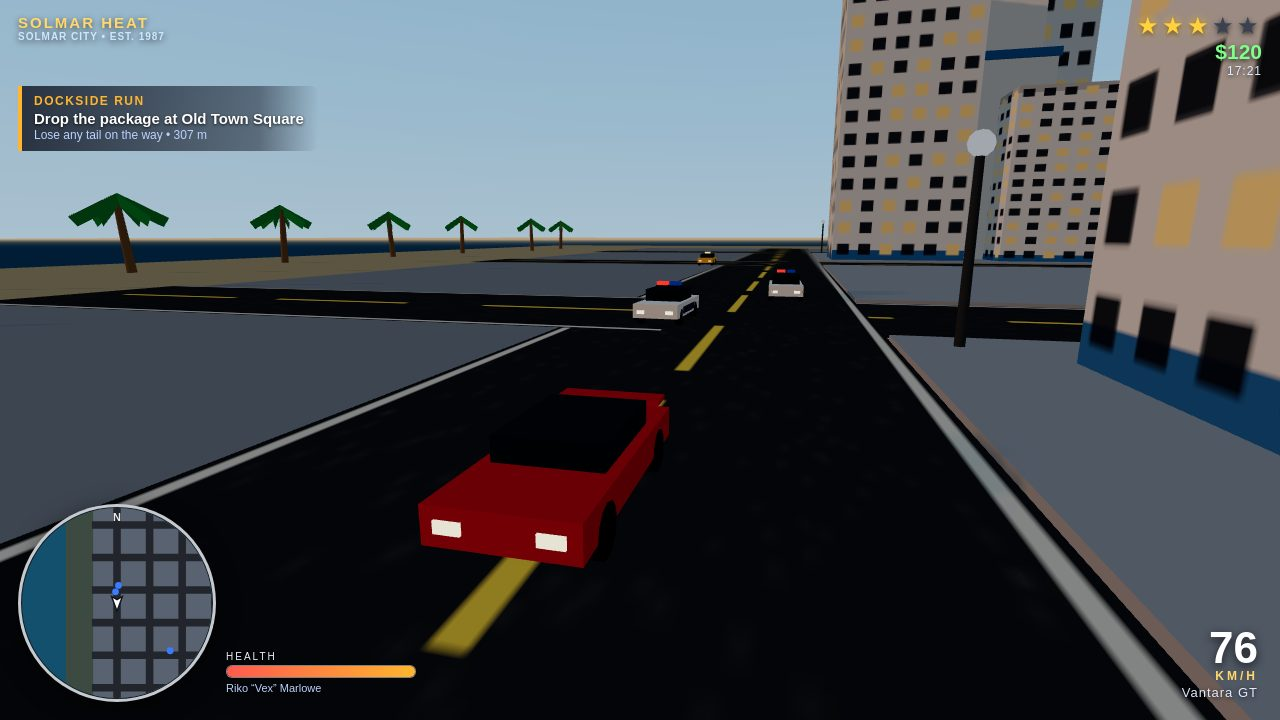
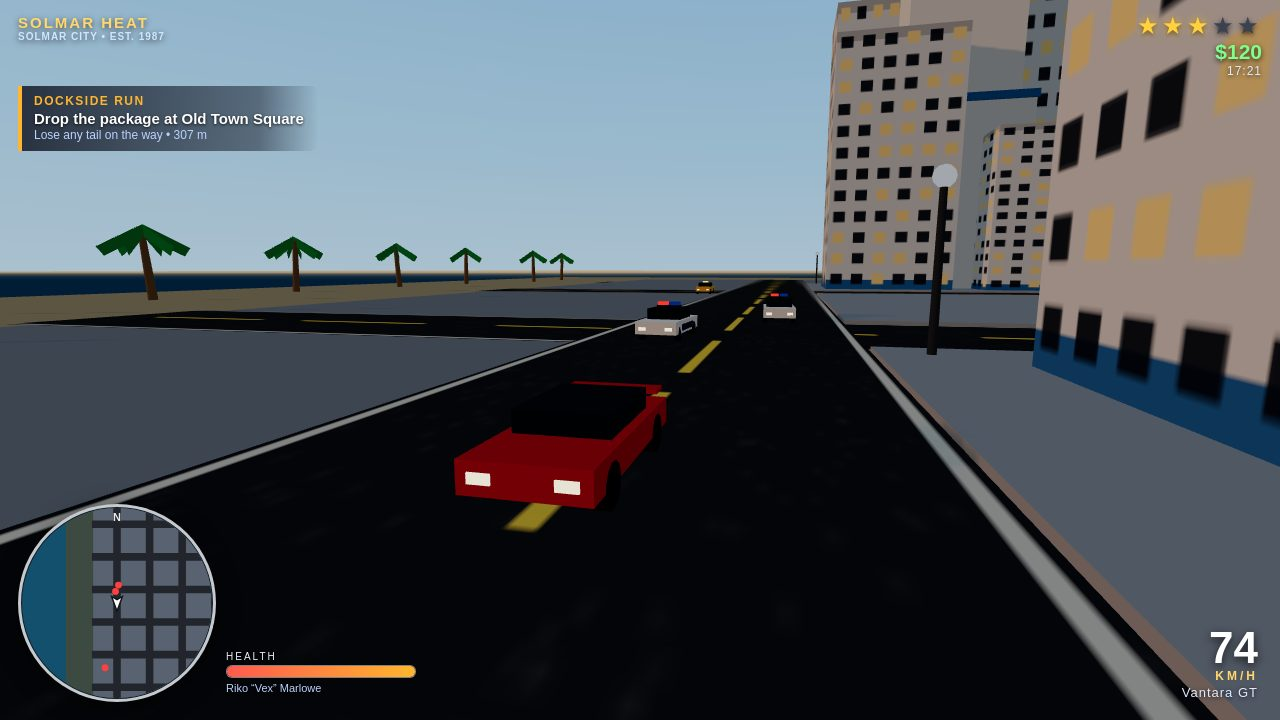
Polish: yacht mesh, shot dressing, README

diff --git a/game/src/city.js b/game/src/city.js
@@ -367,23 +367,125 @@ function buildLandmarks(scene, colliders) {
 
 function buildYacht(scene) {
   const { x, z } = PLACES.yachtDeck;
-  const hull = box(46, 5, 13, lambert(0xf2f4f6));
+  const glowMat = new THREE.MeshBasicMaterial({ color: 0xffd9a0 });
+  const hullMat = lambert(0xf2f4f6);
+  const hull = box(46, 5, 13, hullMat);
   hull.position.set(x, 0.6, z);
   hull.castShadow = false;
   scene.add(hull);
-  const bow = new THREE.Mesh(new THREE.CylinderGeometry(6.5, 6.5, 5, 3, 1), lambert(0xf2f4f6));
+  const bow = new THREE.Mesh(new THREE.CylinderGeometry(6.5, 6.5, 5, 3, 1), hullMat);
   bow.position.set(x + 26, 0.6, z);
   bow.rotation.y = Math.PI / 2;
   scene.add(bow);
+  // Dark waterline band — the hull sits IN the water, not on it.
+  const waterline = box(46.2, 1.4, 13.2, lambert(0x27313c));
+  waterline.position.set(x, -1.3, z);
+  waterline.castShadow = false;
+  scene.add(waterline);
+  // Gold trim stripe along the hull.
   const stripe = box(46.4, 1.1, 13.4, lambert(0xc9a227));
   stripe.position.set(x, 2.2, z);
   scene.add(stripe);
+  // Warm portholes in a row along both hull sides.
+  for (let i = 0; i < 9; i++) {
+    for (const s of [1, -1]) {
+      const port = box(1.1, 0.8, 0.14, glowMat);
+      port.position.set(x - 18 + i * 4.5, 0.9, z + s * 6.55);
+      port.castShadow = false;
+      scene.add(port);
+    }
+  }
+  // Gold bulwark rail around the open main deck.
+  const railMat = lambert(0xd8b84a);
+  for (const s of [1, -1]) {
+    const rail = box(45, 0.16, 0.16, railMat);
+    rail.position.set(x, 3.9, z + s * 6.3);
+    rail.castShadow = false;
+    scene.add(rail);
+  }
+  const sternRail = box(0.16, 0.16, 12.4, railMat);
+  sternRail.position.set(x - 22.9, 3.9, z);
+  sternRail.castShadow = false;
+  scene.add(sternRail);
+  // The yacht's name across the stern, facing the pier and the city.
+  const sternSign = new THREE.Mesh(
+    new THREE.PlaneGeometry(15, 3.4),
+    new THREE.MeshBasicMaterial({ map: signTexture('SOLMAR STAR', '#ffd76a', '#14273d', 'CASINO • YACHT CLUB') }),
+  );
+  sternSign.position.set(x - 23.15, 1.6, z);
+  sternSign.rotation.y = -Math.PI / 2;
+  scene.add(sternSign);
+
+  // Tiered superstructure: white decks with dark glass bands and warm,
+  // lit windows on the sides — and a casino entrance on the bow face.
   const deck1 = box(34, 3.4, 10.5, lambert(0xffffff));
   deck1.position.set(x - 2, 4.8, z);
   scene.add(deck1);
   const deck2 = box(22, 3, 8.4, lambert(0xe8ecf0));
   deck2.position.set(x - 4, 8, z);
   scene.add(deck2);
+  const glassMat = lambert(0x20344a);
+  for (const s of [1, -1]) {
+    const band1 = box(30, 1.1, 0.14, glassMat);
+    band1.position.set(x - 2, 5.3, z + s * 5.32);
+    band1.castShadow = false;
+    scene.add(band1);
+    const band2 = box(19, 1, 0.14, glassMat);
+    band2.position.set(x - 4, 8.4, z + s * 4.27);
+    band2.castShadow = false;
+    scene.add(band2);
+  }
+  const winRow = (count, start, step, y, fixed, alongZ) => {
+    for (let i = 0; i < count; i++) {
+      const win = box(1.3, 0.7, 0.1, glowMat);
+      if (alongZ) win.position.set(fixed, y, start + i * step);
+      else win.position.set(start + i * step, y, fixed);
+      win.castShadow = false;
+      scene.add(win);
+    }
+  };
+  winRow(9, x - 15, 3.4, 5.3, z + 5.42, false);
+  winRow(9, x - 15, 3.4, 5.3, z - 5.42, false);
+  winRow(6, x - 13, 3.4, 8.4, z + 4.34, false);
+  winRow(6, x - 13, 3.4, 8.4, z - 4.34, false);
+  // Casino entrance on deck 1's bow-facing side: doors, sconces, sign.
+  const door = box(0.3, 2.4, 2.4, lambert(0x14273d));
+  door.position.set(x + 15.1, 4.25, z);
+  scene.add(door);
+  for (const s of [1, -1]) {
+    const sconce = new THREE.Mesh(new THREE.SphereGeometry(0.22, 8, 6), glowMat);
+    sconce.position.set(x + 15.2, 5.1, z + s * 2.1);
+    scene.add(sconce);
+  }
+  const casinoSign = new THREE.Mesh(
+    new THREE.PlaneGeometry(8, 1.2),
+    new THREE.MeshBasicMaterial({ map: signTexture('CASINO', '#ffd76a', '#14273d') }),
+  );
+  casinoSign.position.set(x + 15.22, 5.95, z);
+  casinoSign.rotation.y = Math.PI / 2;
+  scene.add(casinoSign);
+  // Lit windows flanking the casino entrance on the same bow face.
+  for (const wz of [z - 4.4, z - 2.9, z + 2.9, z + 4.4]) {
+    const win = box(1.1, 0.7, 0.1, glowMat);
+    win.position.set(x + 15.12, 5.3, wz);
+    win.rotation.y = Math.PI / 2;
+    win.castShadow = false;
+    scene.add(win);
+  }
+  // Radar arch over the top deck.
+  const archMat = lambert(0xdde3e8);
+  for (const s of [1, -1]) {
+    const post = box(0.35, 2.6, 0.35, archMat);
+    post.position.set(x - 4, 10.8, z + s * 3.2);
+    scene.add(post);
+  }
+  const archBar = box(0.4, 0.4, 6.8, archMat);
+  archBar.position.set(x - 4, 12.1, z);
+  scene.add(archBar);
+  const radar = box(2.6, 0.35, 0.7, lambert(0xf4f6f8));
+  radar.position.set(x - 4, 12.55, z);
+  scene.add(radar);
+
   const mast = box(0.5, 10, 0.5, lambert(0x99a3ad));
   mast.position.set(x + 6, 13, z);
   scene.add(mast);
@@ -397,6 +499,18 @@ function buildYacht(scene) {
   sign2.position.z = z - 5.4;
   sign2.rotation.y = Math.PI;
   scene.add(sign2);
+  // String lights sagging from the masthead to the bow and the stern.
+  const stringLights = (x0, y0, x1, y1) => {
+    const n = 11;
+    for (let i = 1; i < n; i++) {
+      const t = i / n;
+      const bulb = new THREE.Mesh(new THREE.SphereGeometry(0.17, 6, 5), glowMat);
+      bulb.position.set(x0 + (x1 - x0) * t, y0 + (y1 - y0) * t - Math.sin(t * Math.PI) * 1.1, z);
+      scene.add(bulb);
+    }
+  };
+  stringLights(x + 6, 17.4, x + 23, 4.2);
+  stringLights(x + 6, 17.4, x - 21, 4.2);
   // Warm deck lights.
   const lightMat = new THREE.MeshBasicMaterial({ color: 0xffca7a });
   for (let i = 0; i < 7; i++) {
@@ -469,6 +583,22 @@ function buildProps(scene, rng, colliders) {
       scene.add(head);
     }
   }
+
+  // Pier 9 dressing: lamp posts along both edges of the deck (the deck top
+  // sits at y 0.6) and palms flanking the pier root on the beach.
+  for (const px of [262, 284, 306]) {
+    for (const s of [1, -1]) {
+      const pole = new THREE.Mesh(new THREE.CylinderGeometry(0.12, 0.16, 5.2, 6), poleMat);
+      pole.position.set(px, 3.2, PLACES.yachtPier.z + s * 4.2);
+      scene.add(pole);
+      const head = new THREE.Mesh(new THREE.SphereGeometry(0.36, 8, 6), dynamicMats.lampHead);
+      head.position.set(px, 5.9, PLACES.yachtPier.z + s * 4.2);
+      scene.add(head);
+    }
+  }
+  palmAt(256, -50);
+  palmAt(262, -70.5);
+  palmAt(300, -50.5);
 }
 
 /** Build the whole city into the scene. Returns colliders + the sky dome material hook. */

diff --git a/game/src/main.js b/game/src/main.js
@@ -60,6 +60,11 @@ const playerMesh = createPersonMesh({ shirt: 0x0e7c86, pants: 0x22242c, skin: 0x
 playerMesh.position.set(PLACES.spawn.x, 0.22, PLACES.spawn.z);
 scene.add(playerMesh);
 
+// Extra pedestrians placed by the screenshot setups (shots.js): citizens on
+// fixed patrol segments, so the dossier frames are alive in the same way on
+// every capture. (The ambient crowd below is seeded, but wanders city-wide.)
+const shotPeds = [];
+
 const parkedCars = spawnParkedCars(scene, rng, 26);
 const traffic = createTraffic(scene, rng, 15);
 const pedestrians = createPedestrians(scene, rng, 42);
@@ -286,6 +291,15 @@ const G = {
     return v;
   },
   placePolice(x, z, heading) { return police.placeUnit(x, z, heading); },
+  placePedestrian(x1, z1, x2, z2, palette) {
+    const mesh = createPersonMesh(palette);
+    mesh.position.set(x1, groundY(x1, z1), z1);
+    mesh.rotation.y = Math.atan2(x2 - x1, z2 - z1);
+    scene.add(mesh);
+    const p = { mesh, ax: x1, az: z1, bx: x2, bz: z2, t: 0, dir: 1, speed: 1.25 };
+    shotPeds.push(p);
+    return p;
+  },
   setAutoDrive(speed) { state.autoDrive = { speed, heading: state.driving ? state.driving.heading : 0 }; },
   setCamMode(m) { state.camMode = m; },
 };
@@ -682,6 +696,20 @@ function frame() {
     const pPos = playerPosVec();
     traffic.update(dt, pPos, colliders);
     pedestrians.update(dt);
+    // Screenshot-setup pedestrians patrol their fixed segments.
+    for (const p of shotPeds) {
+      const len = Math.hypot(p.bx - p.ax, p.bz - p.az) || 1;
+      p.t += (p.dir * p.speed * dt) / len;
+      if (p.t > 1) { p.t = 1; p.dir = -1; }
+      if (p.t < 0) { p.t = 0; p.dir = 1; }
+      const px = p.ax + (p.bx - p.ax) * p.t;
+      const pz = p.az + (p.bz - p.az) * p.t;
+      p.mesh.position.x = px;
+      p.mesh.position.z = pz;
+      p.mesh.rotation.y = Math.atan2((p.bx - p.ax) * p.dir, (p.bz - p.az) * p.dir);
+      animatePerson(p.mesh, p.speed, dt);
+      p.mesh.position.y += groundY(px, pz);
+    }
     // Car-vs-car bumps (player car included).
     const movers = [...allVehicles];
     for (const u of police.units) movers.push(u.v);

diff --git a/game/src/shots.js b/game/src/shots.js
@@ -33,10 +33,13 @@ export function applyShot(G, n) {
     return null;
   }
   if (n === 3) {
-    // The Solmar Job: on the pier, the casino yacht ahead, Mara on the phone.
-    G.setTimeOfDay(18.7);
+    // The Solmar Job: aboard the casino yacht at golden hour — the casino
+    // entrance, tiered decks and mast in front of Riko, Pier 9 with a parked
+    // sedan and the Solmar skyline behind him, Mara on the phone.
+    G.setTimeOfDay(17.9);
     G.setMission(5, 1); // "Grab the take from the casino deck"
-    G.placePlayer(298, -60, Math.PI / 2);
+    G.placeCar('sedan', 0x3f7fbf, 275, -60, Math.PI / 2);
+    G.placePlayer(352, -55.5, -1.71);
     G.showDialog([
       ['Mara Voss (phone)', 'Vault cage is full tonight, Vex. Walk in like a guest — walk out a legend.'],
     ]);
@@ -44,8 +47,16 @@ export function applyShot(G, n) {
     return null;
   }
   // Shot 4 — a morning stroll on the Marina promenade, tower ahead, sea behind.
+  // Dressed foreground: citizens stroll the sidewalk rings of Riko's block and
+  // the block across the street, and two cars are parked along the avenue.
   G.setTimeOfDay(10.4);
   G.setMission(0, 0); // "Meet Mara at the Velvet Palm club"
+  G.placePedestrian(-215.3, -158, -215.3, -138, { skin: 0xc68863, shirt: 0xe74c3c, pants: 0x2c3e50 });
+  G.placePedestrian(-206, -158.5, -184, -158.5, { skin: 0x8a5a3b, shirt: 0xf39c12, pants: 0x34495e, cap: 0x14273d });
+  G.placePedestrian(-186, -160.1, -208, -160.1, { skin: 0xf2c49b, shirt: 0x2ecc71, pants: 0x212121 });
+  G.placePedestrian(-186, -176.7, -206, -176.7, { skin: 0x6e4530, shirt: 0x3498db, pants: 0x5d4037 });
+  G.placeCar('hatch', 0xd94f30, -206, -163.8, Math.PI / 2);
+  G.placeCar('sedan', 0x7a4fb0, -188, -172.2, -Math.PI / 2);
   G.placePlayer(-214, -148, 2.77);
   G.setWanted(0);
   return null;

diff --git a/README.md b/README.md
@@ -1,0 +1,52 @@
+# SOLMAR HEAT
+
+[![gta6-01](https://make.fun/badge/gta6-01.svg)](https://make.fun/c/gta6-01)
+[![rank](https://make.fun/badge/gta6-01/wizzy-bounty/gta6-01-solmar/rank.svg)](https://make.fun/c/gta6-01)
+[![reward](https://make.fun/badge/gta6-01/wizzy-bounty/gta6-01-solmar/reward.svg)](https://make.fun/c/gta6-01)
+
+An open-world crime game set in Solmar City, a sun-soaked coastal city of four
+districts — the Marina, Old Town, the Neon Strip and the Docks — built
+procedurally with three.js and playable entirely offline in a desktop browser.
+
+You are Riko "Vex" Marlowe, fresh out and already in debt to the wrong people.
+Work the six-mission story chain **"The Solmar Job"** for fixer Mara Voss:
+lift a marked Vantara GT, run a package across town under a three-star chase,
+and finish the night aboard the casino yacht *Solmar Star* — or ignore the
+story and make the city your own.
+
+## What's in the city
+
+- **On foot and behind the wheel** — walk, sprint, steal any parked or passing
+  car, and drive a full traffic system that shares the 9×9 street grid.
+- **Wanted system** — crimes witnessed by pedestrians or the SCPD raise your
+  stars (1–5); police AI gives chase, and getting caught means fines and a
+  trip past Solmar General.
+- **Living streets** — 42 pedestrians stroll the sidewalks and panic at
+  gunfire and near-misses; districts change character from marina towers to
+  dock cranes.
+- **Combat** — fists and gunplay, with armed guards watching the big scores.
+- **A full day cycle** — dawn, golden hour and neon night, with synthesized
+  WebAudio music, engine, siren and city sounds. No audio files, no network:
+  every asset is generated at runtime or vendored locally.
+- **Save game** — progress, money and story state persist in `localStorage`.
+
+## Controls
+
+| Input | Action |
+| --- | --- |
+| `W` `A` `S` `D` | Walk / drive |
+| `Shift` | Sprint |
+| `E` | Steal / enter / exit a car |
+| `F` | Punch |
+| Mouse (click to lock) | Look / aim, click to shoot |
+| `Space` | Advance dialogue / handbrake while driving |
+| `P` | Pause |
+
+## Running it
+
+Open `game/index.html` in a desktop browser — that's it. For local play over
+HTTP, `node serve.ts` serves `game/` on <http://localhost:8080>.
+
+`node main.ts` is the make.fun hand-in program (Node 22, standard library
+only): with `MAKEFUN_OUTPUT_DIR` set it copies `game/` and `screenshots/`
+into the output directory and writes the entry's `dossier.json` there.
